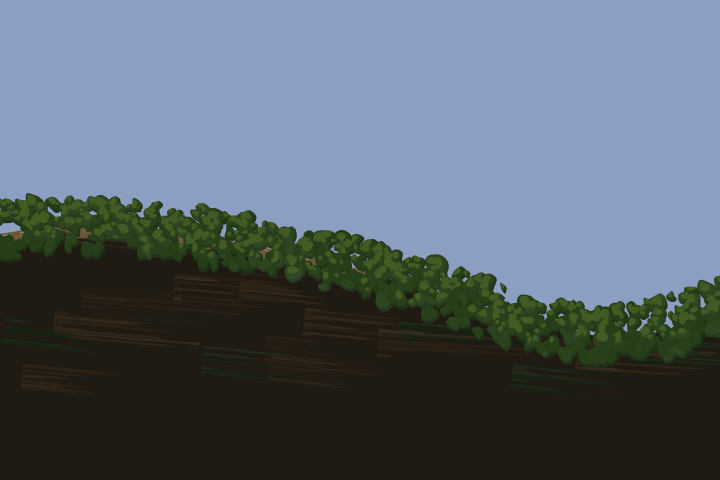
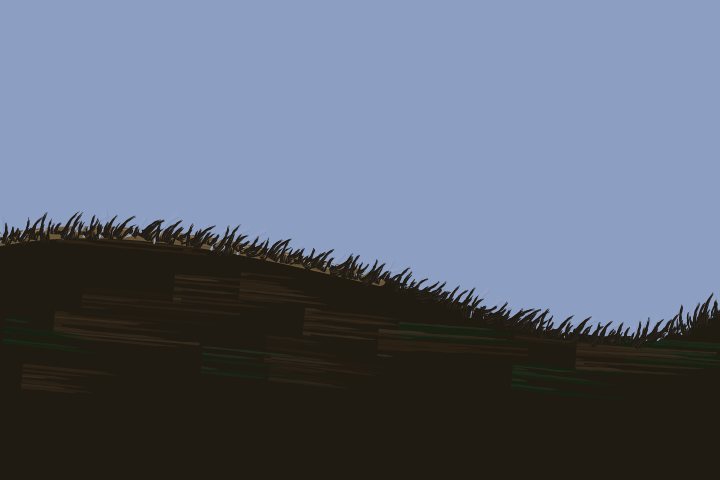
paintkit: brushedge specimen, cookbook bank recipe, docs (#347)

Changed region(s): [[0.0, 0.4062, 1.0, 0.7812]]

diff --git a/docs/guides/landscape-cookbook.md b/docs/guides/landscape-cookbook.md
@@ -330,7 +330,7 @@ grestore
 - `pkfan` spires: `/Width 5 /Bristles 10 /Splay 0.9 /Ragged 0.5 /Flick 0.9`; a few, at random positions along the crest.
 
 **Failures.**
-- *A ruled, flat edge on the mass.* Always a tapped crest over a filled mass, never the fill alone. The fill's edge is a vector line (see recipe 10 and [#347](https://github.com/jeromebanks/postscript_interpreter/issues/347)); the dabs hide it.
+- *A ruled, flat edge on the mass.* Always a tapped crest over a filled mass, never the fill alone. The fill's edge is a vector line; for a forest the tapped dabs are the right break, since they read as foliage. A mass that is not foliage (a meadow, a bare bank) takes `pkbrushedge` instead (recipe 10).
 - *A pale rim round the back row.* `/Under` is wrong; see above.
 
 ```postscript
@@ -637,22 +637,24 @@ grestore
 
 ## 10. The foreground bank
 
-![A dark bank with brushed earth, a lit lip and tapped edge](landscape/bank.png)
+![A dark bank with brushed earth, a lit lip and a brushed edge](landscape/bank.png)
 
-**Tools.** A fill, `pkbroad` clipped to it, `pkoil` for the lip, `pkdab` for the edge (issues #115, #117).
+**Tools.** A fill, `pkbroad` clipped to it, `pkoil` for the lip, `pkbrushedge` for the edge (issues #115, #347).
 
-**Order.** The mass in one near-black colour; brushed earth over it, clipped to it; the lit lip; the dabs that break the edge.
+**Order.** The mass in one near-black colour; brushed earth over it, clipped to it; the lit lip; the brushed edge over all of it.
 
 **Settings.**
 - Brushed earth: dozens of broad strokes of two or three browns and dark greens, `/Width 14 /Charge 0.6 /Depletion 0.9 /Edge 0.2 /Grain 20`, **clipped to the bank's path** so they never leave it.
-- The lip catches the light: one `pkoil` stroke along the top edge in a lighter earth, `/Width 6 /Ridges 8 /Highlight 0.3`; it is a thin accent, so the dabs in step 4 sit over most of it.
+- The lip catches the light: one `pkoil` stroke along the top edge in a lighter earth, `/Width 6 /Ridges 8 /Highlight 0.3`; it is a thin accent, so the brushed edge in step 4 breaks it with the rest of the rim.
+- The edge: `bankpath << /Under LAKE /Slant -30 /Length 12 >> pkbrushedge` in the bank's colour. `/Under` is what is really behind the bank (a procedure `x y -> r g b` for graded water); `/Slant` tilts the strokes the way the bank was dragged; `/Crisp 0.3` leaves stretches of the rim untouched, which a near bank in strong light can take.
 - The bank is the nearest thing in the picture, so it can be nearly black; keep its value far from the water's. Only the grass tips catch the last light in Evening Stream.
 
-**Ruled edges.** A filled mass leaves a ruled vector edge, the one thing that gives away a digital bank. Break it with tapped dabs, bushes or grass along it. A brushed edge for filled masses is [#347](https://github.com/jeromebanks/postscript_interpreter/issues/347); until it lands, the dabs along the rim are the fix.
+**Ruled edges.** A filled mass leaves a ruled vector edge, the one thing that gives away a digital bank. `pkbrushedge` breaks it in one call: the mass's colour pulled out across the edge and the colour behind cut back in, so they interlock (issue #347; specimen `docs/paintkit_brushedge_demo.png`). Give it the closed outline you filled (holes and mirrored reflections work) or just the visible crest left open, whose out side is `/Outward` (default up). Bushes and grass along the rim still help, as things growing there, not as the only fix.
 
 **Failures.**
 - *The earth bleeds past the bank.* No clip.
-- *A bank that looks cut out.* The edge is bare; add dabs, bushes or grass.
+- *A bank that looks cut out.* The edge is bare; brush it with `pkbrushedge`, then add bushes or grass where something grows.
+- *A pale band just inside the edge.* The inward cuts are too dense: keep `/InSpacing` at 2 or more.
 
 ```postscript
 % recipe: bank
@@ -668,8 +670,7 @@ LAKE aload pop setrgbcolor clippath fill
   60 84 130 66 190 52 curveto 230 40 260 26 300 22 curveto
   330 20 350 30 370 40 curveto 370 -60 lineto closepath } def
 
-% 1. The mass, in one dark colour. Its edge is a ruled vector line, so
-%    the later layers (the lip, bushes and grass) are what hide it.
+% 1. The mass, in one dark colour.
 BANK aload pop setrgbcolor bankpath fill
 
 % 2. Brushed earth, clipped to the bank: broad strokes of browns and
@@ -688,13 +689,11 @@ grestore
 newpath 0 70 moveto 60 82 130 64 190 50 curveto
 << /Width 6 /Ridges 8 /Load 0.5 /Dropout 0.5 /Highlight 0.3 >> pkoil
 
-% 4. Break the ruled edge: tapped dabs along it, in a green that sits
-%    between the earth and the grass.
-[ 0.15 0.25 0.10 ] aload pop setrgbcolor
-newpath 0 74 moveto 60 86 130 68 190 54 curveto 230 42 260 28 300 24 curveto
-  330 22 350 32 370 42 curveto
-<< /Size 3 /Scatter 14 /Density 6 /Highlight 0.6 /Shadow 0.5 /Irregular 0.9
-   /HighlightColor [ 0.45 0.55 0.20 ] /ShadowColor [ 0.04 0.07 0.05 ] >> pkdab
+% 4. Brush the ruled edge: the bank's colour pulled out over the water and
+%    the water cut back into the bank, slanted the way the bank was dragged.
+%    After the lip, so the lip is broken with the rest of the edge.
+BANK aload pop setrgbcolor
+bankpath << /Under LAKE /Slant -30 /Length 12 /Lean 20 /Bow 0.15 >> pkbrushedge
 ```
 
 ## 11. Grass
@@ -758,7 +757,6 @@ A recipe is a workaround where one of these would be one call. When one lands, u
 | [#230](https://github.com/jeromebanks/postscript_interpreter/issues/230) | `/Colors` on `pkdry` and `pkoil`'s ridges | 4 Mist, 10 Bank, foam on water |
 | [#345](https://github.com/jeromebanks/postscript_interpreter/issues/345) | light-aware massing for clouds and bushes | 2 Clouds, 7 Bushes |
 | [#346](https://github.com/jeromebanks/postscript_interpreter/issues/346) | `pkpull` across-spine scatter | 11 Grass, a waterfall |
-| [#347](https://github.com/jeromebanks/postscript_interpreter/issues/347) | a brushed edge for filled masses | 5 Forest, 10 Bank |
 | [#359](https://github.com/jeromebanks/postscript_interpreter/issues/359) | `pkwet` backdrop per band, not per pass | 2 Clouds, 4 Mist |
 
 Evening Stream ([PR #348](https://github.com/jeromebanks/postscript_interpreter/pull/348), pending, `gallery/evening_stream.ps` on `feature/187-second-wet-on-wet-landscape`) is the second worked example once it merges: a dark sunset with a stream, a cabin and autumn trees. Its techniques are folded into recipes 2, 8, 9, 10 and 11. When it merges, link its still `gallery/renders/evening_stream.png` from this page.

diff --git a/notes/347-brushed-edge.md b/notes/347-brushed-edge.md
@@ -1,0 +1,70 @@
+## Brushed edges for filled masses: pkbrushedge and pkfeather (issue #347, 2026-10-14)
+
+Every big mass in a landscape starts as a filled path with a ruled vector
+edge. Evening Stream (#187, PR #348) hid those edges by hand (dabs, bushes,
+grass), one composition decision per edge. This adds the tool.
+
+**What shipped** (lib/paintkit.ps, new "Brushed edges" section after the
+motions; nothing existing changed):
+
+- `opts pkfeather` — a brush motion. The current path is a mass's edge; it is
+  replaced with short strokes across it along the local normal. `/Toward
+  /out | /in | /both`, `/Length`, `/LengthJitter`, `/Overlap` (the share of a
+  stroke on its starting side), `/Spacing`, `/Wander`, `/Lean`, `/Slant` (a
+  fixed tilt from the normal), `/Bow`, `/Crisp` + `/CrispRun` (lost and found:
+  stretches left untouched, a two-state walk along the edge), `/Outward` (for
+  open subpaths).
+- `opts pkbrushedge` — the one-call edge. Inward cuts in `/Under` (colour,
+  pigment name, or procedure `x y -> r g b`, asked per stroke) first, then the
+  outward strokes in the current colour, each through `/Brush` (default a
+  small pkbroad that runs dry: `/Width 5 /Charge 0.8 /Depletion 0.9 /Edge 0.6
+  /Grain 10`). `/InLength`, `/InSpacing`. The caller's path, colour and
+  graphics state survive.
+
+**Design calls.**
+
+- *Which side is out* is decided once per subpath. A closepath'd subpath is
+  a mass outline: seven probe points just left of the walk are tested against
+  the whole path as a nonzero region (artkit `scpath`/`siinside`), majority
+  wins. Per-subpath signed area was the first plan and is wrong at holes (a
+  hole's own interior is the hole, so its strokes would go into the mass);
+  the region test also makes mirrored CTMs free. An open subpath (a visible
+  crest) faces `/Outward` by its summed normal, so the crest can be drawn
+  either way. Closure comes from `pkscanclosed`, not coincident endpoints.
+- *Lost and found.* Painters' edges are not broken evenly all along; `/Crisp`
+  is named for what the artist sees (stretches left crisp), not "lost", which
+  in painting means the opposite (a dissolved edge).
+- *Order and density of the two passes.* First prototypes painted the outward
+  pass, then an inward pass as dense as it: the inward strokes' inner ends
+  ruled a pale band just inside the edge. The inward pass is now first,
+  half as dense (`/InSpacing 2`), and mirrors `/Overlap`, so each cut covers
+  the stretch of the normal an outward stroke would and only its tip nicks
+  the mass; the outward strokes land on top and interlock with the nicks.
+- *Default brush.* Compared pkbroad, pkdry, pkliner, pkfan, pkoil and pktrowel
+  at the cookbook scale. Thin brushes (width 2-3) read as a hairy fringe;
+  pkoil as a scalloped rope; pkfan and pktrowel too faint. A 5 pt pkbroad that
+  runs dry, short strokes (`/Length 8`) and a wide lean (`/Lean 30`) read as a
+  broken painted edge. pkliner at width 2 is the grass-blade variant
+  (`/Brush`).
+- *`/Under` takes pkwet's forms* (issue #141, one meaning per key) plus a
+  bare pigment name, and needs no `/At`: each inward stroke asks the
+  procedure at its own start.
+- Errors mid-call (a bad key, a backdrop procedure's bad answer) unwind every
+  gsave the wrapper opened (`pegsave` counts them) before passing on.
+
+**Cookbook.** Recipe 10 (Bank) now brushes its edge with `pkbrushedge`
+instead of tapped dabs, and paints the lip before it so the lip is broken
+with the rest of the rim. Recipe 5 (Forest) keeps its tapped crest, which is
+the right break for foliage; its note points non-foliage masses at recipe 10.
+The "Tools not yet landed" row for #347 is gone.
+
+**Checks.** `%%SelfTest` block: a guard per key, a safety limit, and behaviour
+(a ring wound both ways and under `1 -1 scale` must have every stroke end
+outside the mass; an open crest drawn right to left brushes up). Flipping
+the side test fails it. `scripts/identity_check.sh --loader
+lib/paintkit.ps`: every existing render byte-identical. The specimen renders
+in Ghostscript too.
+
+**Not done.** No `eofill` rule (the region is nonzero, like `fill`); an
+outline mixing open and closed subpaths puts the open ones into the region
+too. Evening Stream (PR #348) is not edited here.

diff --git a/HANDOFF.md b/HANDOFF.md
@@ -943,6 +943,24 @@ renders eight examples in both and compares block-downsampled output).
   is restored with `rrand`/`srand` only when the proc moved it). Tests are `tests/pktrowelplane.rs` plus a
   `%%SelfTest` block; the specimen is `examples/paintkit_plane_demo.ps`
   (`docs/paintkit_plane_demo.png`).
+- **`pkbrushedge` / `pkfeather` (issue #347) brush a filled mass's edge.**
+  Their own section ("Brushed edges") sits after the brush motions.
+  `pkfeather` is a motion (replaces the path, paints nothing, five `frnd`
+  draws per slot, slots at a sixth of `/Spacing` as in `pkpull`). The out
+  side is decided once per subpath, never per stop: for a closepath'd
+  subpath, seven probes just left of the walk are tested against artkit's
+  `scpath` region of the whole path (nonzero, like `fill`), so holes of
+  either winding and mirrored CTMs work; an open subpath faces `/Outward`
+  by the summed normal. Signed area was rejected: it puts a hole's strokes
+  into the mass. `pkbrushedge` paints the inward cuts first (sparser,
+  `/InSpacing` 2, `/Overlap` mirrored) and the outward strokes last; inward
+  cuts as dense as the outward strokes rule a pale band just inside the
+  edge. A procedural `/Under` costs one `/Brush` call per inward stroke.
+  Every gsave goes through `pegsave` so an error mid-call unwinds to the
+  caller's level. Scratch prefixes `mf`/`pe`. Tests: the `%%SelfTest` block
+  (guards plus a ring wound both ways and a ring under `1 -1 scale`); the
+  specimen is `examples/paintkit_brushedge_demo.ps`
+  (`docs/paintkit_brushedge_demo.png`); cookbook recipe 10 uses it.
 - **The landscape cookbook (issue #186) is `docs/guides/landscape-cookbook.md`;
   its snippets are the tests.** `tests/landscape_cookbook.rs` pulls every
   ```` ```postscript ```` block out of the markdown (first line `% recipe: <name>`),

diff --git a/README.md b/README.md
@@ -571,6 +571,27 @@ under any CTM and in Ghostscript. `examples/paintkit_plane_demo.ps`
 (`docs/paintkit_plane_demo.png`) builds a mountain from planes in pigment
 colours and sets out the direction and overlap.
 
+`pkbrushedge` (issue #347) brushes the edge of a filled mass. A meadow, a
+bank or a pond starts as a filled path, and a filled path has a ruled vector
+edge that paint never has; `pkbrushedge` feathers it the way a painter does,
+with short strokes dragged across the boundary: the current colour (the
+mass's) pulled out over what is behind it, and the colour behind (`/Under`:
+a colour, a pigment name, or a procedure `x y -> r g b` for a graded sky)
+cut back in, sparser, so the two interlock. The current path is the edge.
+A subpath closed with `closepath` is a mass outline, and the mass itself
+(the path filled nonzero, as `fill` would) decides which side is out, so a
+hole is brushed into the hole and a mirrored reflection needs nothing
+special; an open subpath is a bare crest whose out side is `/Outward`
+(default up). `/Slant` tilts the strokes, `/Crisp` leaves stretches of the
+edge untouched (lost and found edges), `/Brush` picks the brush (a small
+pkbroad that runs dry by default). The strokes come from `pkfeather`, a
+brush motion in the family above that paints nothing, for anyone who wants
+to pair it with another preset by hand. The caller's path and graphics state
+survive; it works in Ghostscript. `examples/paintkit_brushedge_demo.ps`
+(`docs/paintkit_brushedge_demo.png`) shows each case before and after.
+
+![Brushed edges, before and after](docs/paintkit_brushedge_demo.png)
+
 `pkfan` (issue #114) is the fan brush: foliage, evergreen branches,
 grasses, cloud feathering, soft texture. Its nearest relative is
 `pkdry`, and exactly one term separates them. `pkdry` holds each bristle

diff --git a/.claude/skills/psart/SKILL.md b/.claude/skills/psart/SKILL.md
@@ -285,6 +285,19 @@ Which tool to pick:
   `frnd`, so they are deterministic under your `srand`.
   `examples/paintkit_motion_demo.ps` shows each beside its brush.
 
+- **Brushed edges** — `pkbrushedge` (and the motion under it, `pkfeather`).
+  A filled mass (a meadow, a bank, a pond) has a ruled vector edge; fill it,
+  then `MASS setrgbcolor massPath << /Under BEHIND >> pkbrushedge` pulls the
+  mass's colour out across the edge and cuts the colour behind back in, so
+  the edge reads as painted. Give it the closed outline you filled (holes
+  and mirrored reflections work: the mass itself says which side is out) or
+  just the visible crest, left open, whose out side is `/Outward` (default
+  up). `/Under` is a colour, a pigment name or a procedure `x y -> r g b`
+  (a graded sky or water); `/Slant` tilts the strokes (wind in a meadow, a
+  dragged bank); `/Crisp 0.3` leaves stretches untouched (lost and found);
+  `/Brush` swaps the brush (`{ << /Width 2 >> pkliner }` for grass blades).
+  `examples/paintkit_brushedge_demo.ps` shows before and after.
+
 **Painting a landscape?** Read `docs/guides/landscape-cookbook.md` first: one
 recipe per element (sky, clouds, mountains, mist, far forest, evergreens,
 bushes, water, reflection, foreground bank, grass), each with the tools, the
